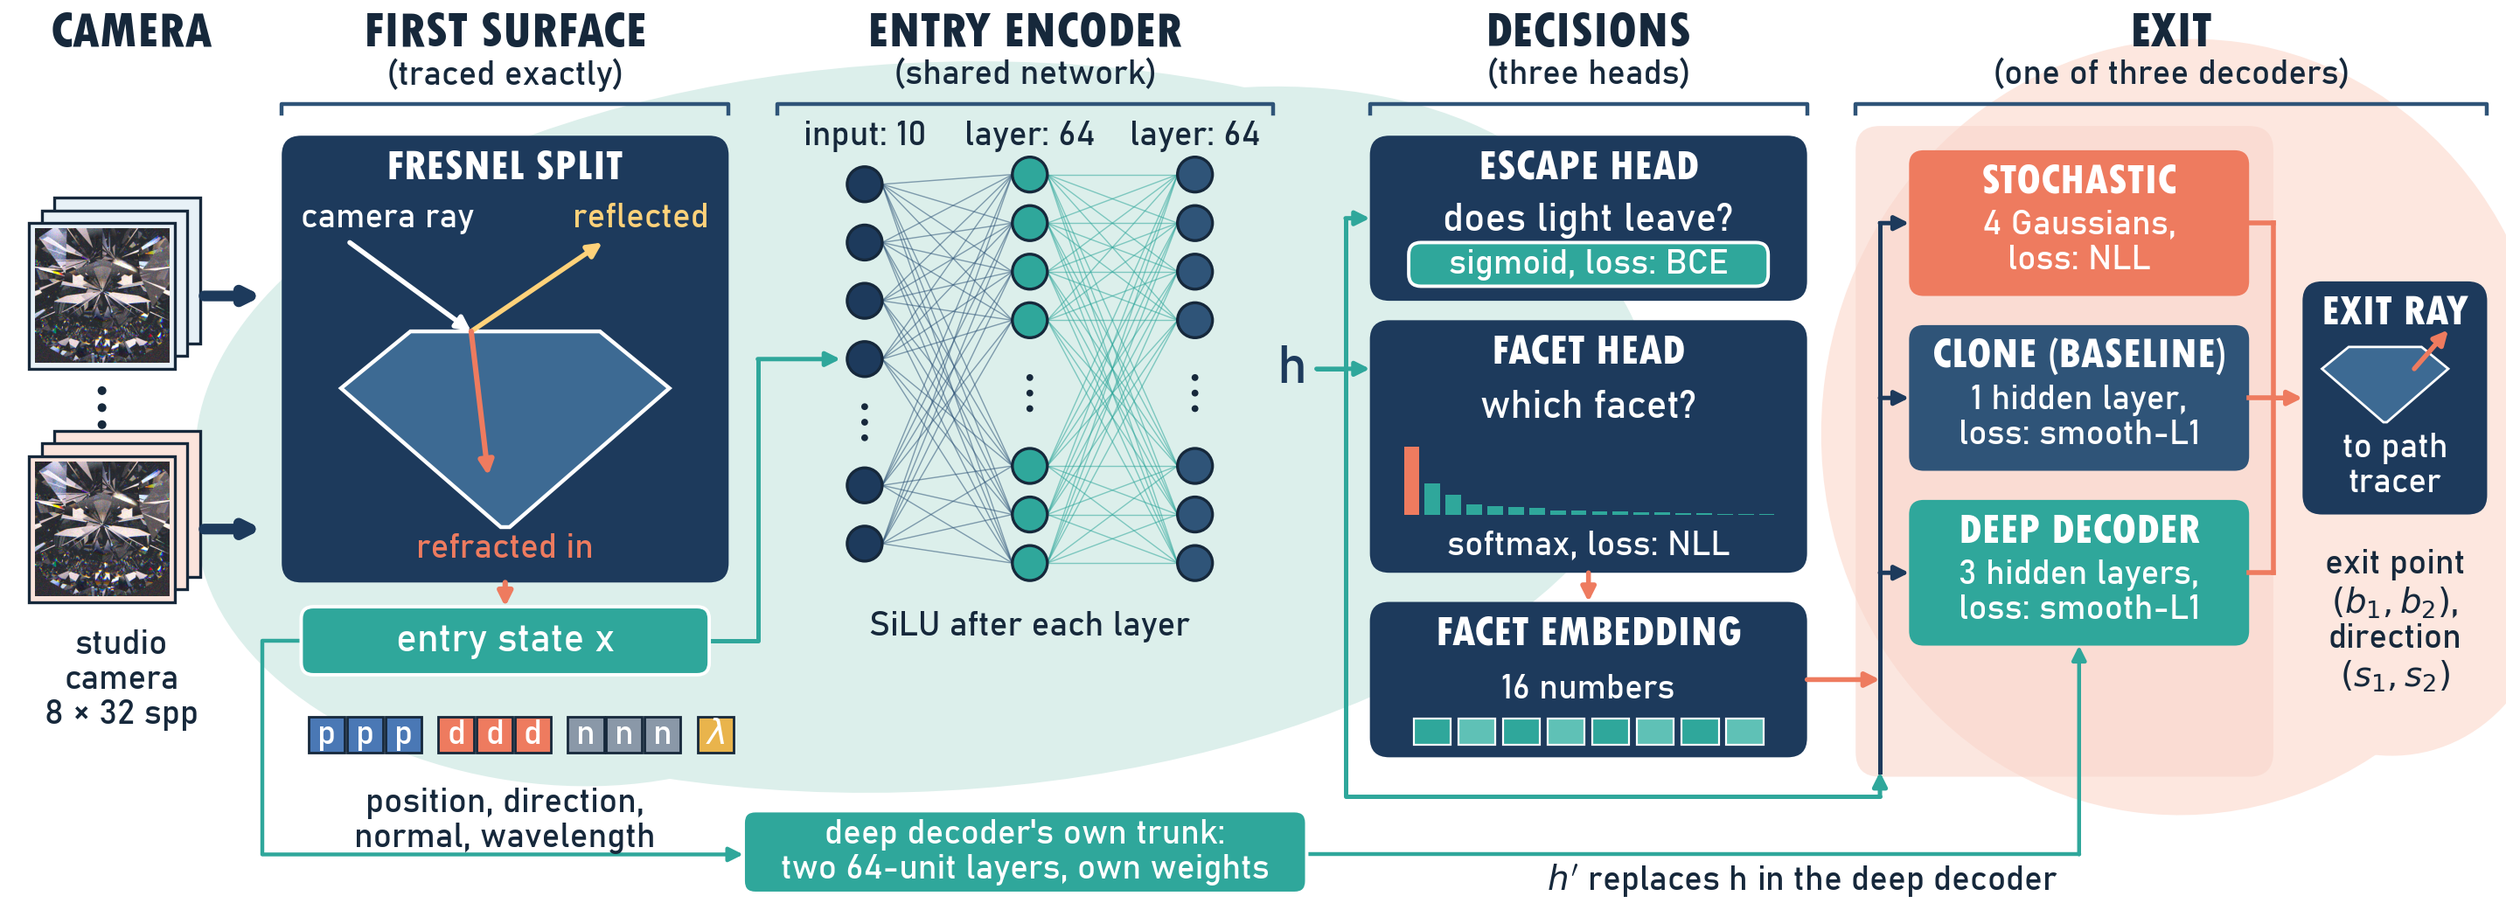
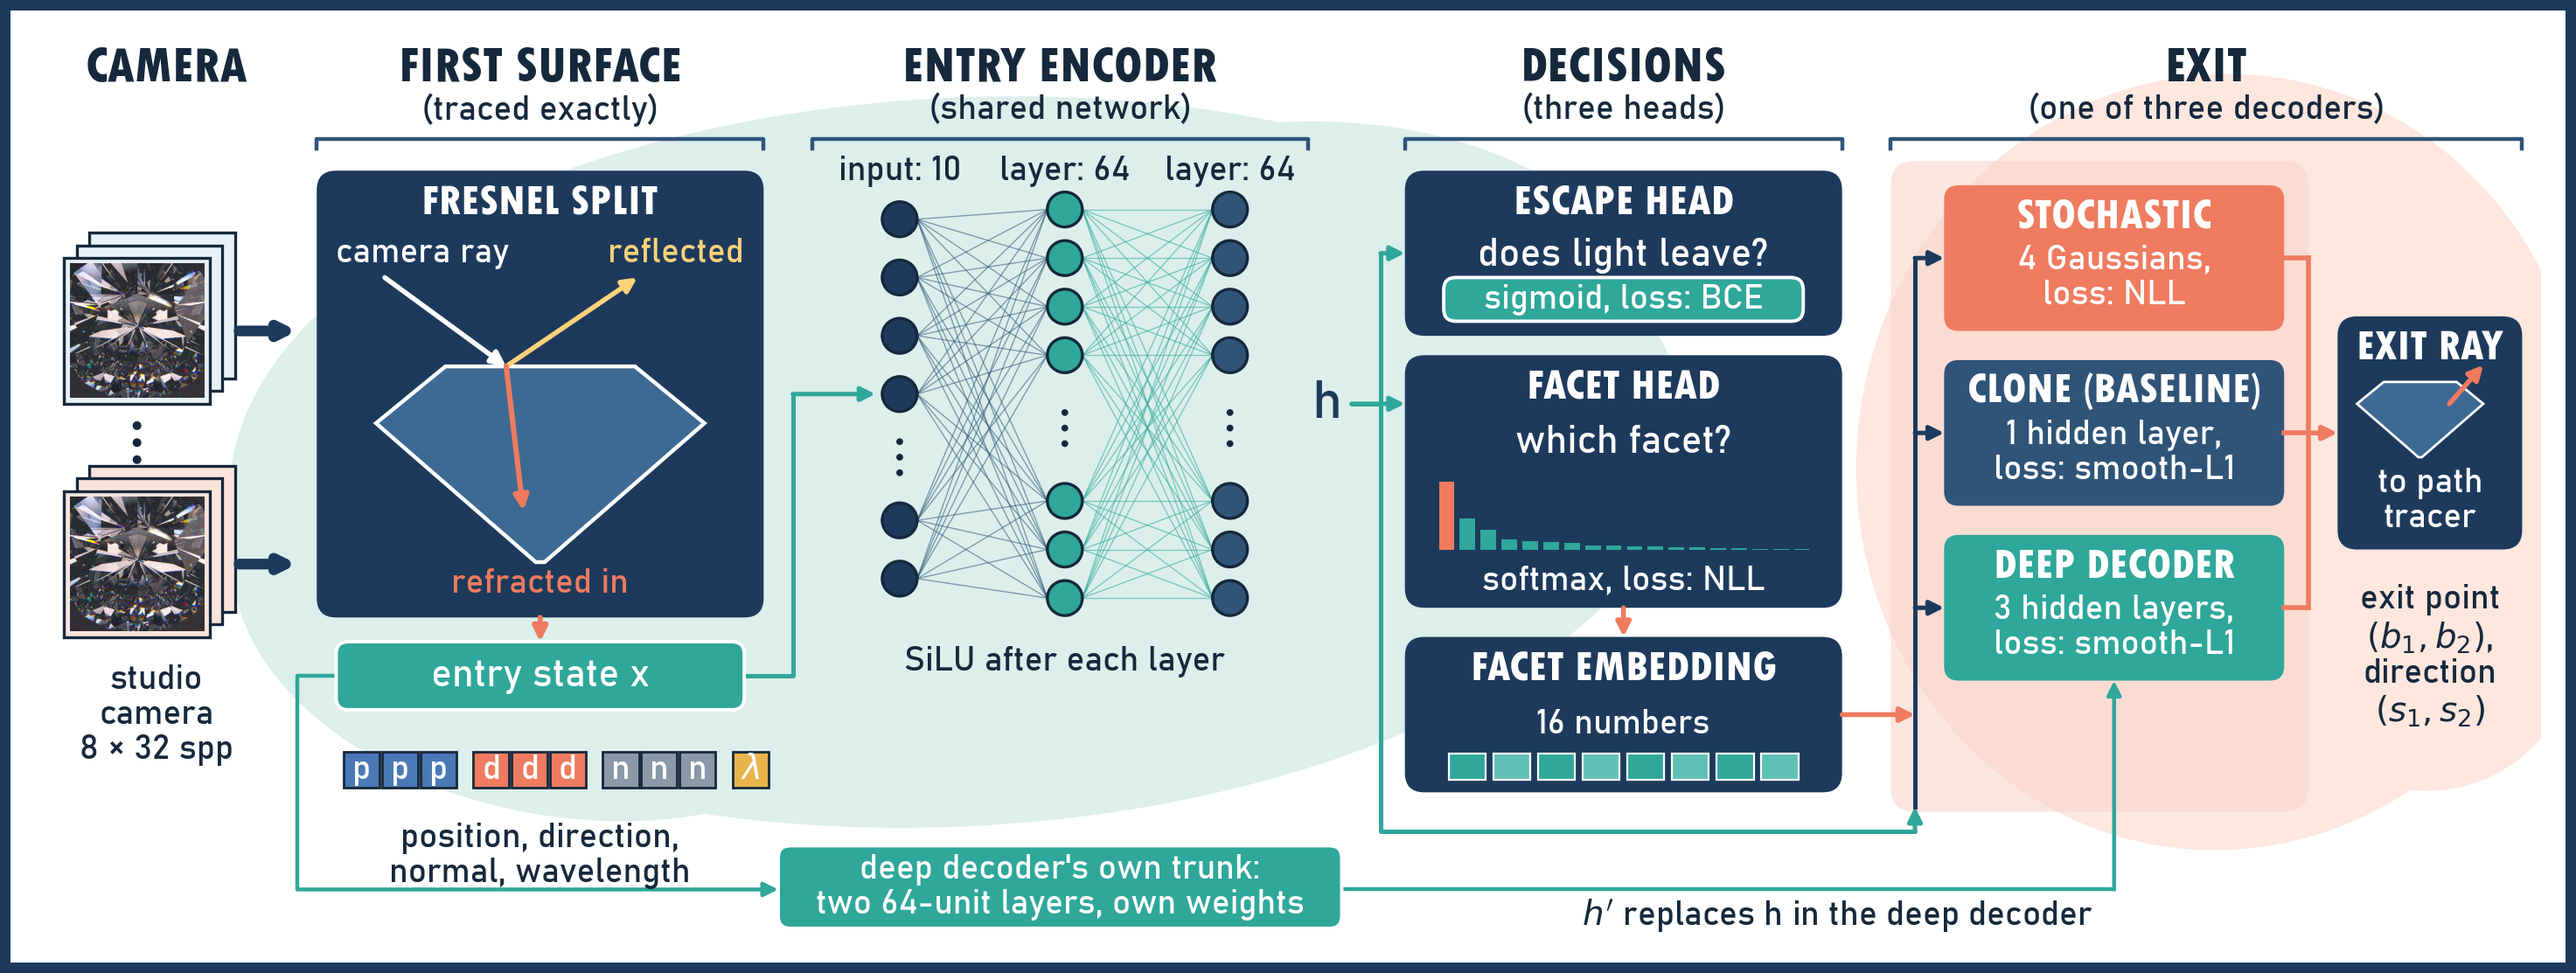
edit: README with true facet renders displayed

diff --git a/README.md b/README.md
@@ -23,7 +23,23 @@ The surface of the diamond is traced exactly. Inside, a network takes where and 
 
 <br>
 
+## Architecture Overview
+
 <img src="docs/readme/architecture.png" width="100%" alt="The neural transport operator">
+
+<br>
+
+## True Facet Diamond Rendering
+
+<div align="center">
+
+<img src="docs/readme/truefacet_wipe_gia_deep.gif" width="32%" alt="GIA brilliant: deep decoder given the true exit facet against the reference">
+<img src="docs/readme/truefacet_wipe_pear_deep.gif" width="32%" alt="Pear: deep decoder given the true exit facet against the reference">
+<img src="docs/readme/truefacet_wipe_step_deep.gif" width="32%" alt="Step cut: deep decoder given the true exit facet against the reference">
+
+<sub><b>GIA brilliant</b> &nbsp;·&nbsp; <b>pear</b> &nbsp;·&nbsp; <b>step cut</b></sub>
+
+</div>
 
 <br>
 
